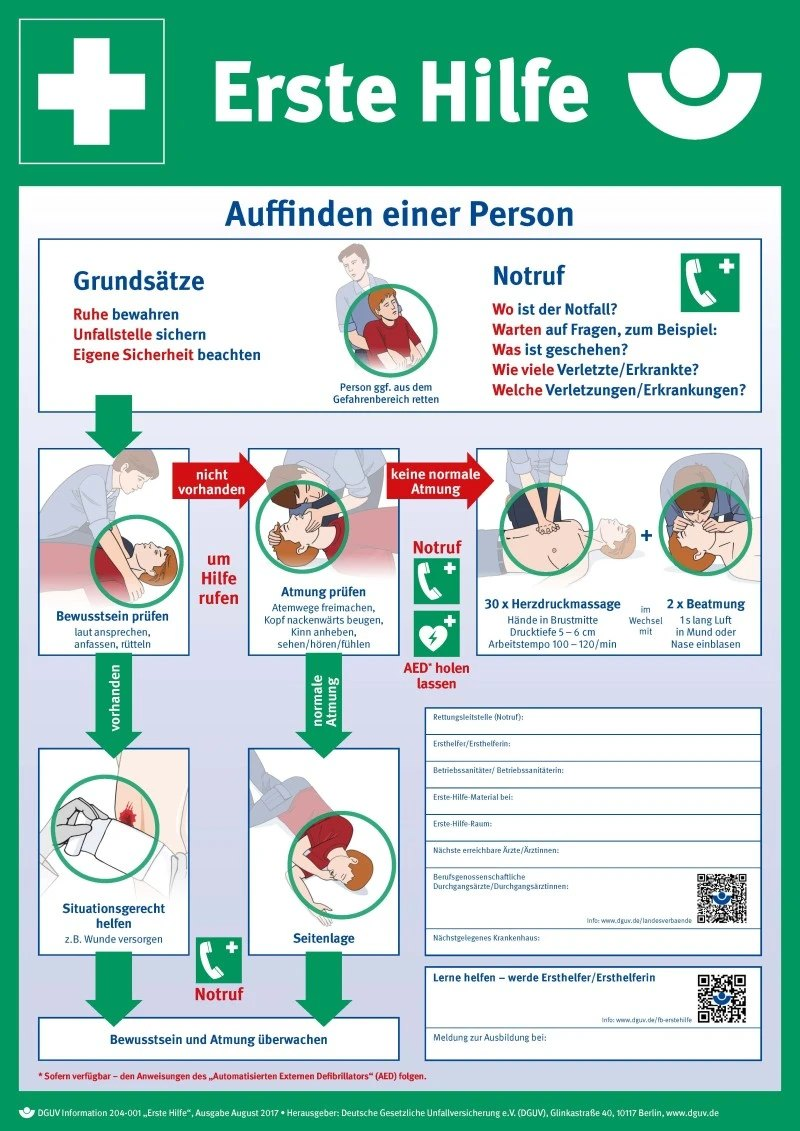
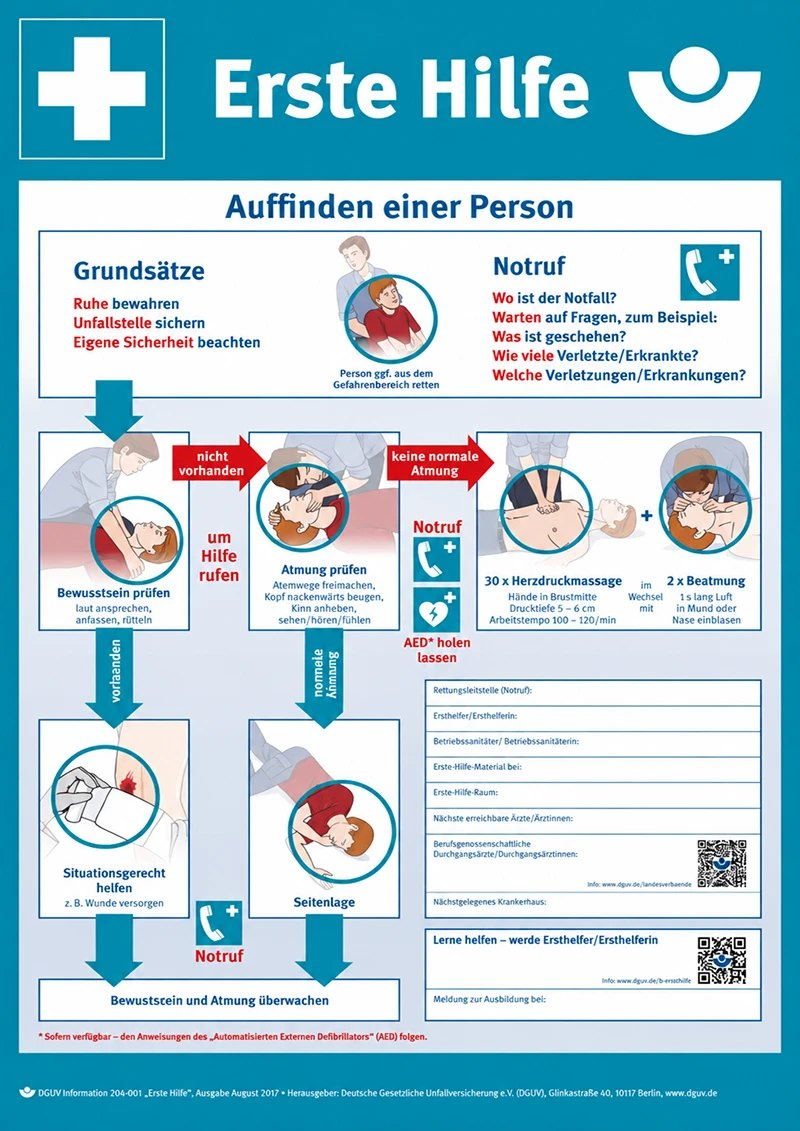
Neues Plakat, Schliessen-Knopf auf die Ecke, 3D-Drucker als dritte Marke
Das Erste-Hilfe-Plakat ist durch die neue Vorlage ersetzt.

Der Schliessen-Knopf der Karte sitzt jetzt halb ausserhalb auf der oberen
rechten Ecke, blau gefuellt mit weissem Kreuz und weissem Ring. Dafuer
musste das Scrollen umziehen: die Karte selbst scrollte und schnitt damit
alles ab, was auf ihrer Ecke liegt - jetzt scrollt die Textspalte.

Der gelbe Harzdrucker im Raum "Technik: Drucker und mehr" ist die dritte
Marke, mit denselben Effekten und einer Infokarte. Winkel wie zuvor im
Panorama ausgemessen, Kasten wie beim Trimmer auf die groesste Ausdehnung
ausgelegt, weil auch er ein Koerper ist. Er liegt auf ein Pixel genau auf
dem Geraet.

Zum Text: beschrieben ist das Verfahren - Aushaerten mit UV-Licht ueber
den Bildschirm, kopfueber wachsendes Werkstueck, Waschen in Isopropanol,
Nachhaerten - und wofuer es sich eignet. Keine Angaben zu Bauraum,
Aufloesung oder zu Harzen, die ich nicht pruefen kann.

diff --git a/website/index.html b/website/index.html
@@ -430,7 +430,7 @@
                   <polygon fill="#83a329" points="319.99 137.82 319.99 153.98 375.1 198.59 381.09 189.44 319.99 137.82"/>
                   <polygon fill="#83a329" points="358.93 223.43 359.9 251.23 387.02 254.34 386.04 226.54 358.93 223.43"/>
                   <polygon fill="#83a329" points="410.48 185.67 410.48 211.64 387.02 254.34 386.04 226.54 410.48 185.67"/>
-                  <g class="gplan-plate__tour" data-tour="assets/tour/index.html?v=8c109c98"
+                  <g class="gplan-plate__tour" data-tour="assets/tour/index.html?v=312afc1f"
                      style="--px:369.9px; --py:193px">
                     <ellipse class="gplan-plate__tour-pulse" cx="369.9" cy="193" rx="9.36" ry="3.536"/>
                     <path class="gplan-plate__tour-pin" d="M369.9 193 C364.7 184.45 359.5 181.49 359.5 174 A10.4 10.4 0 0 1 380.3 174 C380.3 181.49 375.1 184.45 369.9 193 Z"/>
@@ -489,7 +489,7 @@
                 <g class="gplan-plate__lift">
                   <polygon fill="#00a09a" points="59.5 95.66 44.95 78.5 11.76 78.5 60.3 144.39 96.4 139.58 59.5 95.66"/>
                   <polygon fill="#008780" points="60.3 144.39 11.76 78.5 11.76 106.82 60.3 172.4 96.4 167.56 96.4 139.58 60.3 144.39"/>
-                  <g class="gplan-plate__tour" data-tour="assets/tour-1og/index.html?v=f9a2cf9f"
+                  <g class="gplan-plate__tour" data-tour="assets/tour-1og/index.html?v=75174d73"
                      style="--px:56.7px; --py:136.2px">
                     <ellipse class="gplan-plate__tour-pulse" cx="56.7" cy="136.2" rx="9.36" ry="3.536"/>
                     <path class="gplan-plate__tour-pin" d="M56.7 136.2 C51.5 127.65 46.3 124.69 46.3 117.2 A10.4 10.4 0 0 1 67.1 117.2 C67.1 124.69 61.9 127.65 56.7 136.2 Z"/>
@@ -548,7 +548,7 @@
             Etage wählen — oder direkt in einen 360°-Rundgang starten.
           </p>
 
-          <a class="gplan__tour-card" href="assets/tour/index.html?v=8c109c98"
+          <a class="gplan__tour-card" href="assets/tour/index.html?v=312afc1f"
              target="_blank" rel="noopener">
             <span class="gplan__tour-card-pin" aria-hidden="true">360°</span>
             <span class="gplan__tour-card-text">
@@ -562,7 +562,7 @@
             </svg>
           </a>
 
-          <a class="gplan__tour-card" href="assets/tour-1og/index.html?v=f9a2cf9f"
+          <a class="gplan__tour-card" href="assets/tour-1og/index.html?v=75174d73"
              target="_blank" rel="noopener">
             <span class="gplan__tour-card-pin" aria-hidden="true">360°</span>
             <span class="gplan__tour-card-text">

diff --git a/website/assets/tour-1og/tour-extras.js b/website/assets/tour-1og/tour-extras.js
@@ -79,6 +79,36 @@
       ],
       note: "Schutzbrille tragen und den Wasserzulauf öffnen, bevor das " +
         "Gerät eingeschaltet wird."
+    },
+    {
+      scene: "Drucker",
+      kind: "info",
+      yaw: -0.0666,
+      // Also a solid box, so sized to the largest its outline gets.
+      pitch: 0.2352,
+      radius: 1000,
+      width: 210,
+      height: 340,
+      src: "../images/drucker-photon-m3-max.jpg",
+      label: "3D-Drucker Anycubic Photon M3 Max",
+      title: "3D-Drucker",
+      sub: "Anycubic Photon M3 Max",
+      text: [
+        "Ein Harzdrucker. Gedruckt wird nicht aus Kunststofffaden, sondern " +
+          "aus flüssigem Kunstharz, das Schicht für Schicht von " +
+          "einem Bildschirm mit UV-Licht ausgehärtet wird.",
+        "Die Bauplattform hängt über dem Harzbecken und wird nach " +
+          "jeder Schicht ein Stück angehoben – das Werkstück " +
+          "wächst also kopfüber nach oben. Weil die Schichten sehr " +
+          "fein sind, eignet sich das Verfahren für Modelle, Schienen " +
+          "und Schablonen.",
+        "Die gelbe Haube hält UV-Licht von außen ab, damit das Harz " +
+          "im Becken nicht vorzeitig aushärtet. Nach dem Druck wird das " +
+          "Teil in Isopropanol gewaschen und anschließend unter UV-Licht " +
+          "nachgehärtet."
+      ],
+      note: "Flüssiges Harz reizt Haut und Augen: Handschuhe tragen und " +
+        "die Haube geschlossen halten."
     }
   ];
 

diff --git a/website/assets/tour/tour-extras.js b/website/assets/tour/tour-extras.js
@@ -79,6 +79,36 @@
       ],
       note: "Schutzbrille tragen und den Wasserzulauf öffnen, bevor das " +
         "Gerät eingeschaltet wird."
+    },
+    {
+      scene: "Drucker",
+      kind: "info",
+      yaw: -0.0666,
+      // Also a solid box, so sized to the largest its outline gets.
+      pitch: 0.2352,
+      radius: 1000,
+      width: 210,
+      height: 340,
+      src: "../images/drucker-photon-m3-max.jpg",
+      label: "3D-Drucker Anycubic Photon M3 Max",
+      title: "3D-Drucker",
+      sub: "Anycubic Photon M3 Max",
+      text: [
+        "Ein Harzdrucker. Gedruckt wird nicht aus Kunststofffaden, sondern " +
+          "aus flüssigem Kunstharz, das Schicht für Schicht von " +
+          "einem Bildschirm mit UV-Licht ausgehärtet wird.",
+        "Die Bauplattform hängt über dem Harzbecken und wird nach " +
+          "jeder Schicht ein Stück angehoben – das Werkstück " +
+          "wächst also kopfüber nach oben. Weil die Schichten sehr " +
+          "fein sind, eignet sich das Verfahren für Modelle, Schienen " +
+          "und Schablonen.",
+        "Die gelbe Haube hält UV-Licht von außen ab, damit das Harz " +
+          "im Becken nicht vorzeitig aushärtet. Nach dem Druck wird das " +
+          "Teil in Isopropanol gewaschen und anschließend unter UV-Licht " +
+          "nachgehärtet."
+      ],
+      note: "Flüssiges Harz reizt Haut und Augen: Handschuhe tragen und " +
+        "die Haube geschlossen halten."
     }
   ];
 

diff --git a/website/tools/tour-shared/tour-extras.js b/website/tools/tour-shared/tour-extras.js
@@ -79,6 +79,36 @@
       ],
       note: "Schutzbrille tragen und den Wasserzulauf öffnen, bevor das " +
         "Gerät eingeschaltet wird."
+    },
+    {
+      scene: "Drucker",
+      kind: "info",
+      yaw: -0.0666,
+      // Also a solid box, so sized to the largest its outline gets.
+      pitch: 0.2352,
+      radius: 1000,
+      width: 210,
+      height: 340,
+      src: "../images/drucker-photon-m3-max.jpg",
+      label: "3D-Drucker Anycubic Photon M3 Max",
+      title: "3D-Drucker",
+      sub: "Anycubic Photon M3 Max",
+      text: [
+        "Ein Harzdrucker. Gedruckt wird nicht aus Kunststofffaden, sondern " +
+          "aus flüssigem Kunstharz, das Schicht für Schicht von " +
+          "einem Bildschirm mit UV-Licht ausgehärtet wird.",
+        "Die Bauplattform hängt über dem Harzbecken und wird nach " +
+          "jeder Schicht ein Stück angehoben – das Werkstück " +
+          "wächst also kopfüber nach oben. Weil die Schichten sehr " +
+          "fein sind, eignet sich das Verfahren für Modelle, Schienen " +
+          "und Schablonen.",
+        "Die gelbe Haube hält UV-Licht von außen ab, damit das Harz " +
+          "im Becken nicht vorzeitig aushärtet. Nach dem Druck wird das " +
+          "Teil in Isopropanol gewaschen und anschließend unter UV-Licht " +
+          "nachgehärtet."
+      ],
+      note: "Flüssiges Harz reizt Haut und Augen: Handschuhe tragen und " +
+        "die Haube geschlossen halten."
     }
   ];
 

diff --git a/website/assets/tour-1og/tour-skin.css b/website/assets/tour-1og/tour-skin.css
@@ -835,7 +835,6 @@ a.tnav__item:hover {
   align-items: center;
   width: min(54rem, 90vw);
   max-height: 86vh;
-  overflow-y: auto;
   padding: 1.6rem 1.8rem;
   font-family: "Inter", -apple-system, BlinkMacSystemFont, "Segoe UI", Arial, sans-serif;
   background-color: #fff;
@@ -858,6 +857,11 @@ a.tnav__item:hover {
   letter-spacing: 0.02em;
   text-transform: uppercase;
   color: var(--ui-accent);
+}
+
+.tcard__text {
+  max-height: 72vh;
+  overflow-y: auto;
 }
 
 .tcard__text p {
@@ -911,19 +915,22 @@ a.tnav__item:hover {
 
 .tcard__close {
   position: absolute;
-  top: 0.75rem;
-  right: 0.75rem;
+  /* On the corner itself, half outside the card, so it is impossible to
+     miss. Needs .tcard to keep overflow visible - the text column is what
+     scrolls. */
+  top: -1rem;
+  right: -1rem;
   display: grid;
   place-items: center;
-  width: 2.4rem;
-  height: 2.4rem;
-  font-size: 1.7rem;
+  width: 2.6rem;
+  height: 2.6rem;
+  font-size: 1.8rem;
   line-height: 1;
   color: #fff;
   background-color: var(--ui-accent);
-  border: 0;
+  border: 3px solid #fff;
   border-radius: 50%;
-  box-shadow: 0 4px 12px rgba(51, 87, 161, 0.45);
+  box-shadow: 0 6px 18px rgba(12, 23, 48, 0.45);
   cursor: pointer;
   transition: background-color 180ms var(--ui-ease),
               transform 180ms var(--ui-ease);

diff --git a/website/assets/tour/tour-skin.css b/website/assets/tour/tour-skin.css
@@ -835,7 +835,6 @@ a.tnav__item:hover {
   align-items: center;
   width: min(54rem, 90vw);
   max-height: 86vh;
-  overflow-y: auto;
   padding: 1.6rem 1.8rem;
   font-family: "Inter", -apple-system, BlinkMacSystemFont, "Segoe UI", Arial, sans-serif;
   background-color: #fff;
@@ -858,6 +857,11 @@ a.tnav__item:hover {
   letter-spacing: 0.02em;
   text-transform: uppercase;
   color: var(--ui-accent);
+}
+
+.tcard__text {
+  max-height: 72vh;
+  overflow-y: auto;
 }
 
 .tcard__text p {
@@ -911,19 +915,22 @@ a.tnav__item:hover {
 
 .tcard__close {
   position: absolute;
-  top: 0.75rem;
-  right: 0.75rem;
+  /* On the corner itself, half outside the card, so it is impossible to
+     miss. Needs .tcard to keep overflow visible - the text column is what
+     scrolls. */
+  top: -1rem;
+  right: -1rem;
   display: grid;
   place-items: center;
-  width: 2.4rem;
-  height: 2.4rem;
-  font-size: 1.7rem;
+  width: 2.6rem;
+  height: 2.6rem;
+  font-size: 1.8rem;
   line-height: 1;
   color: #fff;
   background-color: var(--ui-accent);
-  border: 0;
+  border: 3px solid #fff;
   border-radius: 50%;
-  box-shadow: 0 4px 12px rgba(51, 87, 161, 0.45);
+  box-shadow: 0 6px 18px rgba(12, 23, 48, 0.45);
   cursor: pointer;
   transition: background-color 180ms var(--ui-ease),
               transform 180ms var(--ui-ease);

diff --git a/website/tools/tour-shared/tour-skin.css b/website/tools/tour-shared/tour-skin.css
@@ -835,7 +835,6 @@ a.tnav__item:hover {
   align-items: center;
   width: min(54rem, 90vw);
   max-height: 86vh;
-  overflow-y: auto;
   padding: 1.6rem 1.8rem;
   font-family: "Inter", -apple-system, BlinkMacSystemFont, "Segoe UI", Arial, sans-serif;
   background-color: #fff;
@@ -858,6 +857,11 @@ a.tnav__item:hover {
   letter-spacing: 0.02em;
   text-transform: uppercase;
   color: var(--ui-accent);
+}
+
+.tcard__text {
+  max-height: 72vh;
+  overflow-y: auto;
 }
 
 .tcard__text p {
@@ -911,19 +915,22 @@ a.tnav__item:hover {
 
 .tcard__close {
   position: absolute;
-  top: 0.75rem;
-  right: 0.75rem;
+  /* On the corner itself, half outside the card, so it is impossible to
+     miss. Needs .tcard to keep overflow visible - the text column is what
+     scrolls. */
+  top: -1rem;
+  right: -1rem;
   display: grid;
   place-items: center;
-  width: 2.4rem;
-  height: 2.4rem;
-  font-size: 1.7rem;
+  width: 2.6rem;
+  height: 2.6rem;
+  font-size: 1.8rem;
   line-height: 1;
   color: #fff;
   background-color: var(--ui-accent);
-  border: 0;
+  border: 3px solid #fff;
   border-radius: 50%;
-  box-shadow: 0 4px 12px rgba(51, 87, 161, 0.45);
+  box-shadow: 0 6px 18px rgba(12, 23, 48, 0.45);
   cursor: pointer;
   transition: background-color 180ms var(--ui-ease),
               transform 180ms var(--ui-ease);

diff --git a/website/assets/tour-1og/index.html b/website/assets/tour-1og/index.html
@@ -9,7 +9,7 @@
 <link rel="stylesheet" href="style.css">
 <!-- Modern skin for the controls. Must stay AFTER style.css so it overrides
      the generated defaults. Re-add this line if the tour is regenerated. -->
-<link rel="stylesheet" href="tour-skin.css?v=c111fe8c">
+<link rel="stylesheet" href="tour-skin.css?v=daf11cc7">
 </head>
 <body class="multiple-scenes view-control-buttons">
 
@@ -98,7 +98,7 @@
 <script src="data.js?v=b5dc8826"></script>
 <script src="index.js"></script>
 <script src="tour-nav.js?v=21899d37"></script>
-<script src="tour-extras.js?v=20668957"></script>
+<script src="tour-extras.js?v=3035b64e"></script>
 
 </body>
 </html>

diff --git a/website/assets/tour/index.html b/website/assets/tour/index.html
@@ -9,7 +9,7 @@
 <link rel="stylesheet" href="style.css">
 <!-- Modern skin for the controls. Must stay AFTER style.css so it overrides
      the generated defaults. Re-add this line if the tour is regenerated. -->
-<link rel="stylesheet" href="tour-skin.css?v=c111fe8c">
+<link rel="stylesheet" href="tour-skin.css?v=daf11cc7">
 </head>
 <body class="multiple-scenes view-control-buttons">
 
@@ -82,7 +82,7 @@
 <script src="data.js?v=658d1b28"></script>
 <script src="index.js"></script>
 <script src="tour-nav.js?v=21899d37"></script>
-<script src="tour-extras.js?v=20668957"></script>
+<script src="tour-extras.js?v=3035b64e"></script>
 
 </body>
 </html>
